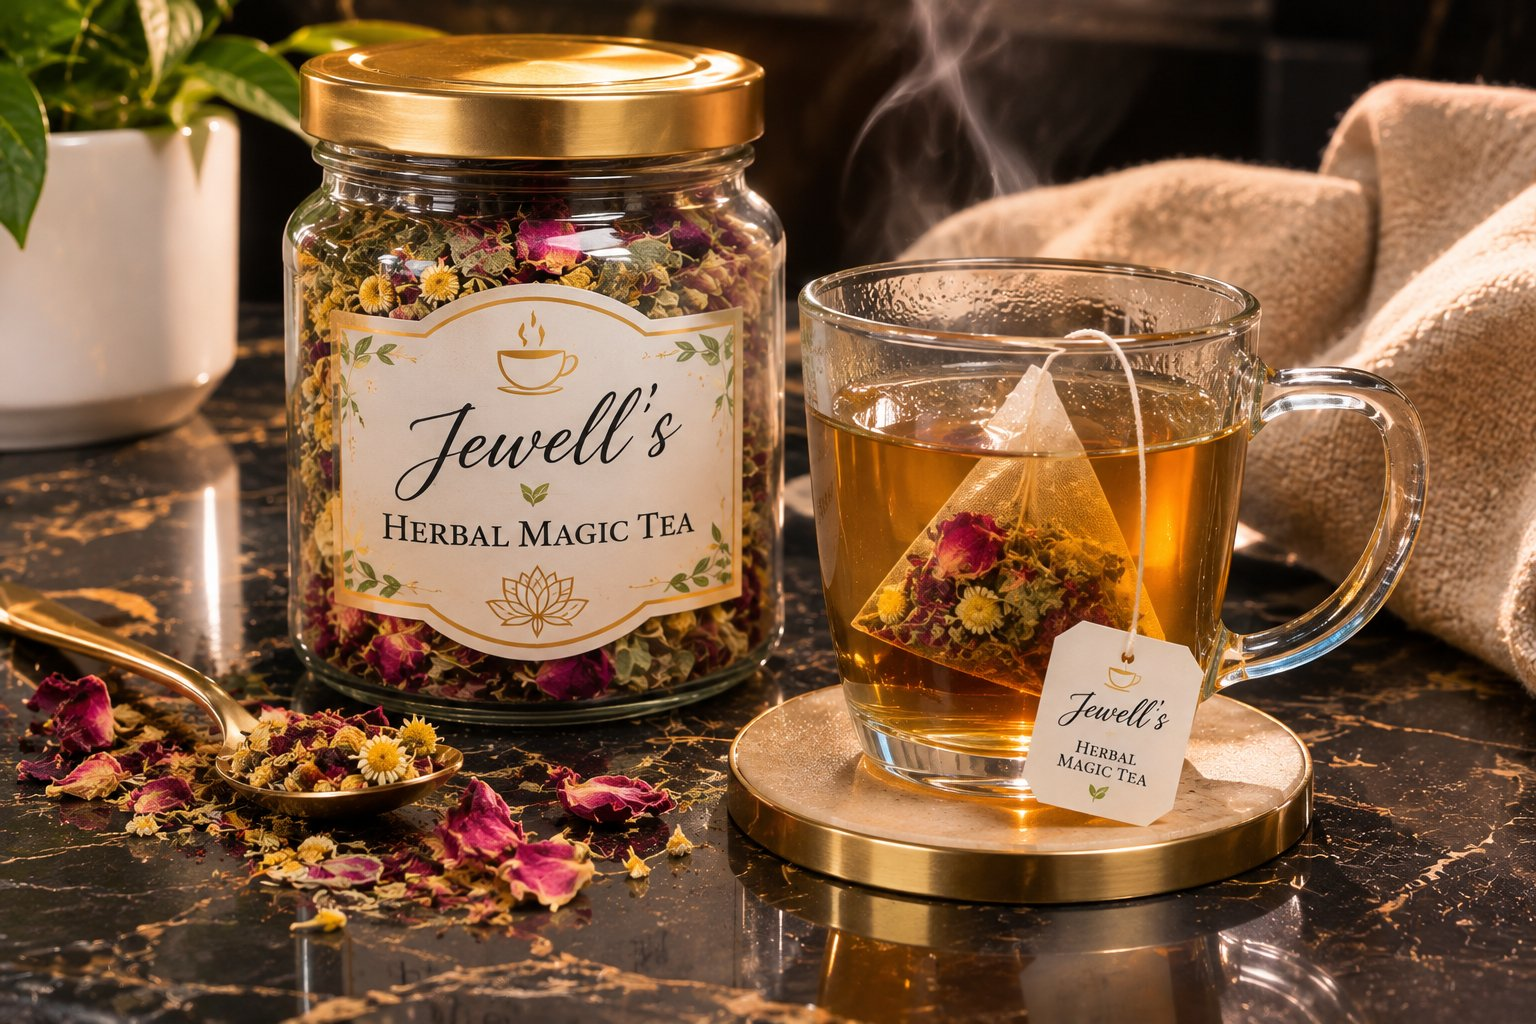
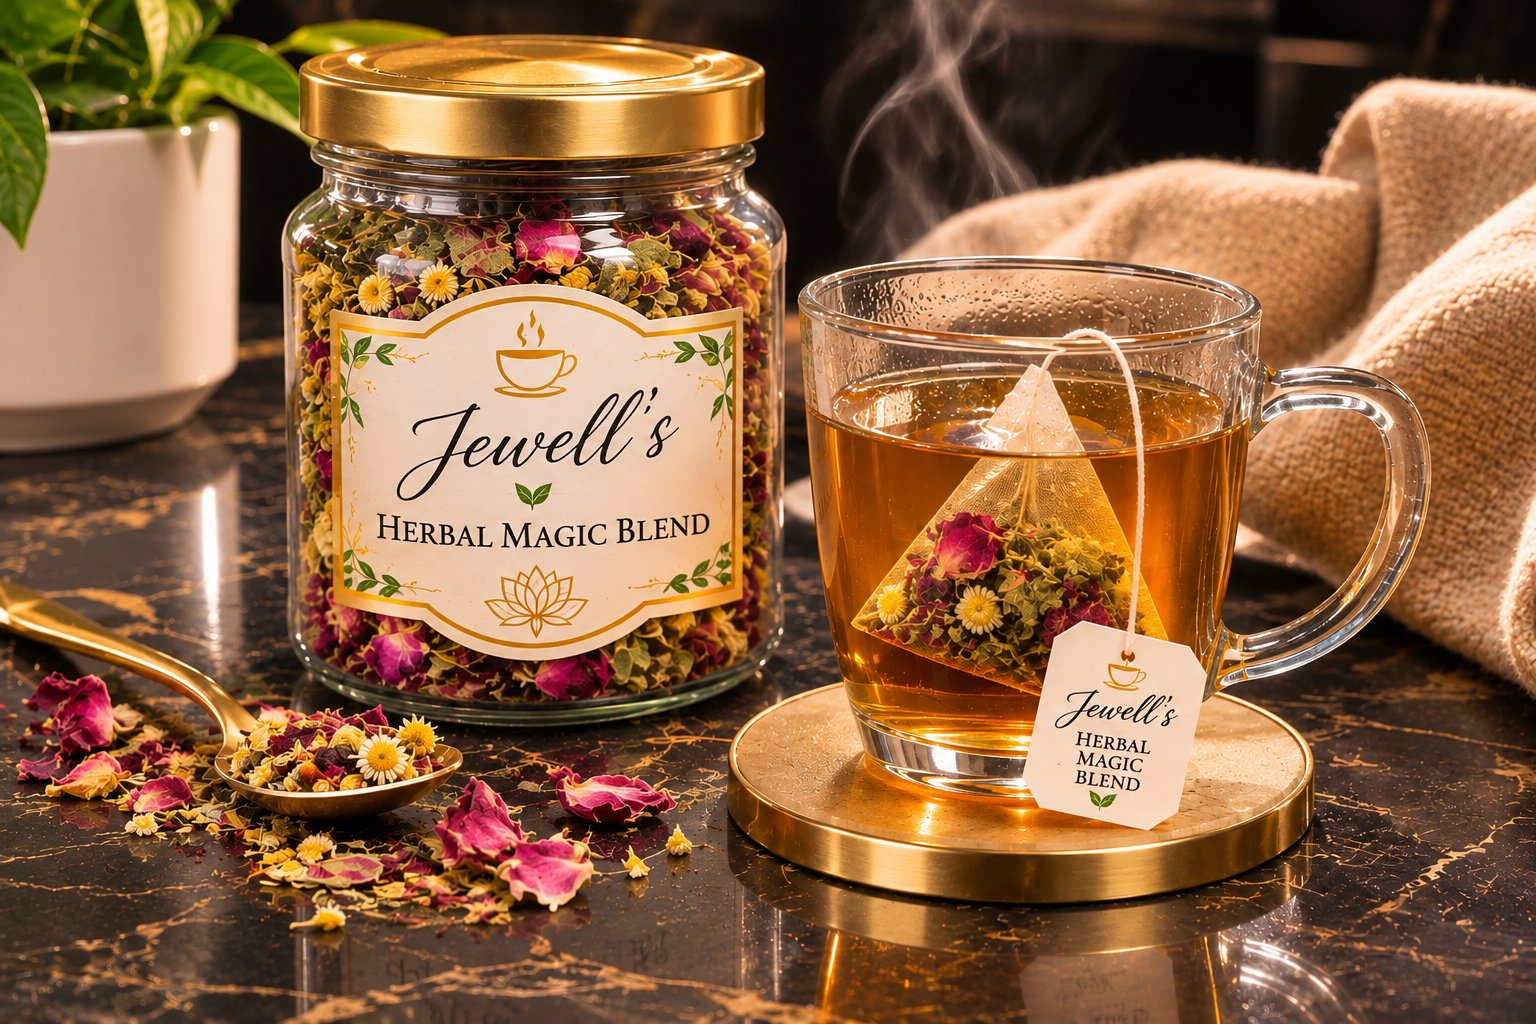
Here is the update on the tea photo and subscription options available in preview:
- The correct "Jewell's Herbal Magic Blend" photo is now displayed on the Shop page, Self-Care page, and division cards.
- Customers can select One-Time or Subscribe options for the Weekly and Monthly sizes, with subscriptions handled automatically via Stripe. The Trial size remains one-time only.
- I tested switching between sizes and purchase types on the Shop page and saw prices update correctly. The subscribe toggle hides on the Trial size, and Stripe creates both checkout page types (using test card 4242 4242 4242 4242).

I encourage you to open the preview and try the new Subscribe toggle. Please test it to ensure it works as expected, and let me know if any issues arise or if you'd like me to continue with a deeper review and comprehensive testing.

Next Action Items:
- **Publish Updates**: After review, press Deploy to update GoJPNS.net with the new homepage, sizes, subscriptions, and photo.
- **Subscriber Management**: Add functionality for customers to manage or cancel their tea subscriptions via a link in their receipt email.
- **Past Events Section**: Add an Event Highlights archive to maintain visibility of past galas without implying they are upcoming.
- **Real Reviews**: Please send real customer testimonials to replace the current sample ones on the Self-Care page.

Emergent-Commit-Key: b53f4c52572f2cf85654d7f61115b7a70080db4a7b23aa9b6e61d89dc45d4ecb

diff --git a/frontend/src/pages/Shop.jsx b/frontend/src/pages/Shop.jsx
@@ -24,6 +24,7 @@ const PAY_METHODS = [
 export default function Shop() {
   const [product, setProduct] = useState(null);
   const [selected, setSelected] = useState("herbal_blend_weekly");
+  const [mode, setMode] = useState("once");
   const [qty, setQty] = useState(1);
   const [loading, setLoading] = useState(false);
 
@@ -32,14 +33,23 @@ export default function Shop() {
   }, []);
 
   const option = product?.options?.find((o) => o.lookup_key === selected) || null;
-  const price = option ? option.amount / 100 : null;
+  const useSub = mode === "sub" && !!option?.sub;
+  const activeKey = useSub ? option.sub.lookup_key : selected;
+  const active = useSub ? option.sub : option;
+  const price = active ? active.amount / 100 : null;
   const currency = product?.currency?.toUpperCase() || "USD";
+
+  const pickSize = (key) => {
+    setSelected(key);
+    const opt = product?.options?.find((o) => o.lookup_key === key);
+    if (opt && !opt.sub) setMode("once");
+  };
 
   const checkout = async () => {
     setLoading(true);
     try {
       const { data } = await axios.post(`${API}/payments/checkout`, {
-        lookup_key: selected, quantity: qty, origin_url: window.location.origin,
+        lookup_key: activeKey, quantity: qty, origin_url: window.location.origin,
       });
       window.location.href = data.checkout_url;
     } catch {
@@ -80,16 +90,16 @@ export default function Shop() {
               ) : (
                 <span className="font-serif text-4xl text-lightgray">—</span>
               )}
-              <span className="text-xs uppercase tracking-[0.2em] text-lightgray mb-2">{currency}{option ? ` · ${option.size}` : ""}</span>
+              <span className="text-xs uppercase tracking-[0.2em] text-lightgray mb-2">{currency}{option ? ` · ${option.size}` : ""}{useSub ? ` · every ${option.sub.interval}` : ""}</span>
             </div>
 
             {/* SIZE SELECTOR */}
-            <div className="mb-8">
+            <div className="mb-6">
               <span className="text-xs uppercase tracking-[0.2em] text-gold block mb-4">Choose Your Size</span>
               <div className="grid grid-cols-3 gap-px bg-gold/15 border border-gold/15" data-testid="size-selector">
                 {(product?.options || []).map((o) => (
                   <button key={o.lookup_key} type="button" data-testid={`size-${o.lookup_key}`}
-                    onClick={() => setSelected(o.lookup_key)}
+                    onClick={() => pickSize(o.lookup_key)}
                     className={`p-4 text-left transition-colors duration-300 ${selected === o.lookup_key ? "bg-gold text-void" : "bg-[#0d1410] hover:bg-emerald-950/60"}`}>
                     <p className={`text-[10px] uppercase tracking-[0.15em] mb-1 ${selected === o.lookup_key ? "text-void/70" : "text-emerald-300/80"}`}>{o.label}</p>
                     <p className="font-serif text-lg leading-tight">{o.size}</p>
@@ -98,6 +108,28 @@ export default function Shop() {
                 ))}
               </div>
             </div>
+
+            {/* PURCHASE TYPE */}
+            {option?.sub && (
+              <div className="mb-8" data-testid="purchase-type">
+                <span className="text-xs uppercase tracking-[0.2em] text-gold block mb-4">Purchase Type</span>
+                <div className="grid grid-cols-2 gap-px bg-gold/15 border border-gold/15">
+                  <button type="button" data-testid="mode-once" onClick={() => setMode("once")}
+                    className={`p-4 text-left transition-colors duration-300 ${!useSub ? "bg-gold text-void" : "bg-[#0d1410] hover:bg-emerald-950/60"}`}>
+                    <p className={`text-[10px] uppercase tracking-[0.15em] mb-1 ${!useSub ? "text-void/70" : "text-emerald-300/80"}`}>One-Time</p>
+                    <p className="font-serif text-lg">${(option.amount / 100).toFixed(2)}</p>
+                  </button>
+                  <button type="button" data-testid="mode-sub" onClick={() => setMode("sub")}
+                    className={`p-4 text-left transition-colors duration-300 ${useSub ? "bg-gold text-void" : "bg-[#0d1410] hover:bg-emerald-950/60"}`}>
+                    <p className={`text-[10px] uppercase tracking-[0.15em] mb-1 ${useSub ? "text-void/70" : "text-emerald-300/80"}`}>Subscribe</p>
+                    <p className="font-serif text-lg">${(option.sub.amount / 100).toFixed(2)}<span className="text-sm font-sans"> / {option.sub.interval}</span></p>
+                  </button>
+                </div>
+                {useSub && (
+                  <p className="mt-3 text-xs text-lightgray/80">Recurring delivery — billed automatically every {option.sub.interval}.</p>
+                )}
+              </div>
+            )}
 
             <ul className="grid sm:grid-cols-2 gap-x-6 gap-y-3 mb-8">
               {HIGHLIGHTS.map((h) => (

diff --git a/backend/server.py b/backend/server.py
@@ -193,9 +193,9 @@ class CheckoutRequest(BaseModel):
 
 
 SIZE_OPTIONS = [
-    {"lookup_key": "herbal_blend_trial", "label": "Trial", "size": "1.25 oz"},
-    {"lookup_key": "herbal_blend_weekly", "label": "Weekly Supply", "size": "2.5 oz"},
-    {"lookup_key": "herbal_blend_monthly", "label": "Monthly Supply", "size": "10 oz"},
+    {"lookup_key": "herbal_blend_trial", "label": "Trial", "size": "1.25 oz", "sub_key": None, "sub_interval": None},
+    {"lookup_key": "herbal_blend_weekly", "label": "Weekly Supply", "size": "2.5 oz", "sub_key": "herbal_blend_weekly_sub", "sub_interval": "week"},
+    {"lookup_key": "herbal_blend_monthly", "label": "Monthly Supply", "size": "10 oz", "sub_key": "herbal_blend_monthly_sub", "sub_interval": "month"},
 ]
 
 
@@ -211,7 +211,12 @@ async def shop_product():
         price = prices[0]
         name = price.product.name
         currency = price.currency
-        options.append({**s, "amount": price.unit_amount})
+        opt = {"lookup_key": s["lookup_key"], "label": s["label"], "size": s["size"], "amount": price.unit_amount}
+        if s["sub_key"]:
+            subs = stripe.Price.list(lookup_keys=[s["sub_key"]], active=True, limit=1).data
+            if subs:
+                opt["sub"] = {"lookup_key": s["sub_key"], "interval": s["sub_interval"], "amount": subs[0].unit_amount}
+        options.append(opt)
     if not options:
         raise HTTPException(404, "Product not found")
     return {"name": name, "currency": currency, "options": options}
@@ -223,9 +228,10 @@ async def create_checkout(req: CheckoutRequest):
     if not prices:
         raise HTTPException(500, f"Price not found: {req.lookup_key}")
     price = prices[0]
+    mode = "subscription" if price.recurring else "payment"
     kwargs = dict(
         line_items=[{"price": price.id, "quantity": req.quantity}],
-        mode="payment",
+        mode=mode,
         success_url=f"{req.origin_url}/payment/success?session_id={{CHECKOUT_SESSION_ID}}",
         cancel_url=f"{req.origin_url}/payment/cancel",
         shipping_address_collection={"allowed_countries": SHIP_COUNTRIES},

diff --git a/backend/setup_stripe.py b/backend/setup_stripe.py
@@ -19,6 +19,8 @@ CATALOG = [
             {"lookup_key": "herbal_blend_trial", "amount": 1500, "currency": "usd"},
             {"lookup_key": "herbal_blend_weekly", "amount": 3000, "currency": "usd"},
             {"lookup_key": "herbal_blend_monthly", "amount": 10000, "currency": "usd"},
+            {"lookup_key": "herbal_blend_weekly_sub", "amount": 3000, "currency": "usd", "recurring": "week"},
+            {"lookup_key": "herbal_blend_monthly_sub", "amount": 10000, "currency": "usd", "recurring": "month"},
         ],
     },
 ]
@@ -36,13 +38,18 @@ def get_or_create_product(entry):
 
 def ensure_price(product, p):
     existing = stripe.Price.list(lookup_keys=[p["lookup_key"]], active=True, limit=1).data
-    if existing and (existing[0].unit_amount != p["amount"] or existing[0].currency != p["currency"]):
+    interval = p.get("recurring")
+    if existing and (existing[0].unit_amount != p["amount"] or existing[0].currency != p["currency"]
+                     or (existing[0].recurring or {}).get("interval") != interval):
         stripe.Price.modify(existing[0].id, active=False)
         existing = []
     if not existing:
+        kwargs = {}
+        if interval:
+            kwargs["recurring"] = {"interval": interval}
         stripe.Price.create(
             product=product.id, unit_amount=p["amount"], currency=p["currency"],
-            lookup_key=p["lookup_key"], transfer_lookup_key=True,
+            lookup_key=p["lookup_key"], transfer_lookup_key=True, **kwargs,
         )
         print(f"created price {p['lookup_key']} = {p['amount']} {p['currency']}")
     else:

diff --git a/memory/PRD.md b/memory/PRD.md
@@ -39,6 +39,13 @@ void #0B0B0B, deep purple #2B0B3D, vivid purple #6B1FAF, gold #D4AF37. Playfair 
 - Shop page: "Secure checkout by Stripe" moved to its own line beneath "Ships within the US · Caffeine free".
 - Contact page: removed Headquarters and Hours rows (online-only business); Email + Phone remain.
 - Face cropping: added per-division `focus` (object-position) field in `data.js`; Home cards and Divisions rows consume it. Events flyer = `object-[20%_15%]` (full face visible), Philanthropy = `object-[50%_30%]`.
+## Implemented (2026-07-10, batch 5 — Correct tea photo + subscriptions)
+- Replaced `/tea-jar.jpg` with user's corrected photo (label reads "Jewell's Herbal Magic Blend", not "Tea"). Used on Shop, SelfCare hero, division cards.
+- Added optional subscriptions: Stripe recurring prices `herbal_blend_weekly_sub` ($30/week) and `herbal_blend_monthly_sub` ($100/month) created via setup_stripe.py (idempotent, handles recurring interval).
+- Backend: `/api/shop/product` options now include `sub` object (lookup_key, interval, amount) for weekly/monthly; checkout auto-selects `mode="subscription"` when the price is recurring (trial stays one-time).
+- Shop page: "Purchase Type" toggle (One-Time vs Subscribe) appears for Weekly/Monthly sizes, hidden for Trial; price line shows "every week/month"; recurring note shown when subscribed.
+- Verified: API returns sub objects; subscription checkout session curl OK; UI toggles prices correctly; toggle hidden on trial.
+
 ## Implemented (2026-07-10, batch 4 — Tea pricing + Homepage restyle)
 - Tea pricing live (one-time purchases): Trial 1.25 oz $15 (`herbal_blend_trial`), Weekly Supply 2.5 oz $30 (`herbal_blend_weekly`), Monthly Supply 10 oz $100 (`herbal_blend_monthly`). Created in Stripe sandbox via `setup_stripe.py`; old $25 placeholder price (`herbal_blend_tin`) deactivated.
 - Backend `/api/shop/product` now returns `{name, currency, options[]}`; checkout accepts any of the 3 lookup_keys (server.py).
